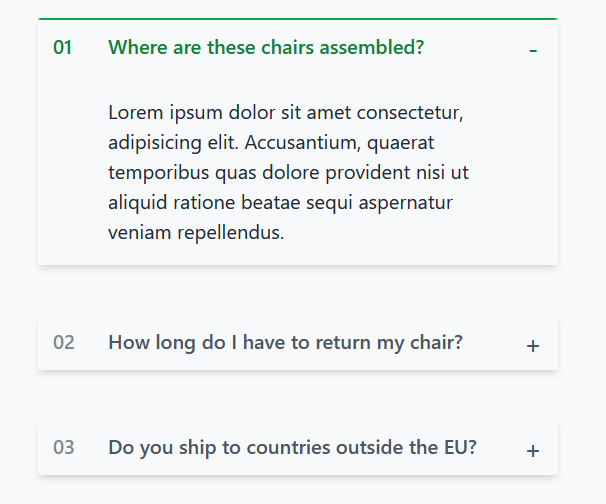
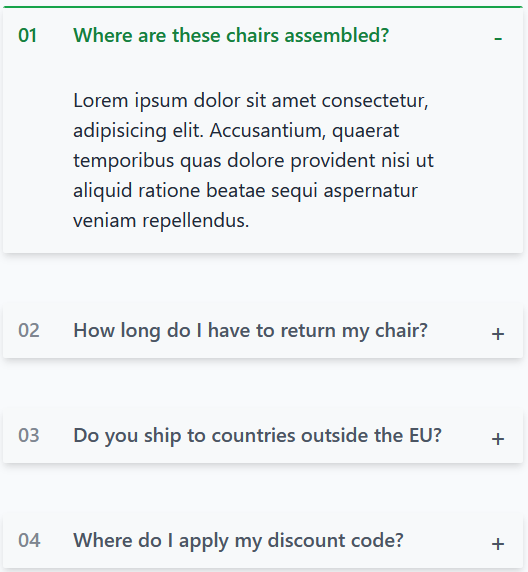
minor upd

diff --git a/src/components/accordionpage/AccordionPage.tsx b/src/components/accordionpage/AccordionPage.tsx
@@ -4,7 +4,7 @@ import { IAccordion } from "./Types";
 
 const accordionList: IAccordion[] = [
   {
-    id: 1,
+    id: 0,
     isOpen: false,
     fact: {
       title: "Where are these chairs assembled?",
@@ -12,7 +12,7 @@ const accordionList: IAccordion[] = [
     },
   },
   {
-    id: 2,
+    id: 1,
     isOpen: false,
     fact: {
       title: "How long do I have to return my chair?",
@@ -20,11 +20,20 @@ const accordionList: IAccordion[] = [
     },
   },
   {
-    id: 3,
+    id: 2,
     isOpen: false,
     fact: {
       title: "Do you ship to countries outside the EU?",
       text: "Excepturi velit laborum, perspiciatis nemo perferendis reiciendis aliquam possimus dolor sed! Dolore laborum ducimus veritatis facere molestias!",
+    },
+  },
+
+  {
+    id: 3,
+    isOpen: false,
+    fact: {
+      title: "Where do I apply my discount code?",
+      text: "Cras tincidunt in magna ut faucibus. In in tempor nisl. Donec venenatis aliquet nulla, cursus blandit nisi mollis a.",
     },
   },
 ];

diff --git a/README.md b/README.md
@@ -18,4 +18,4 @@ The purpose of this exercise was to create an accordion in order to cover the fo
 ## Images
 
 ![Image 1](public/image.png)
-![Image 2](public/image2.png)
+![Image 2](public/image_2.png)
